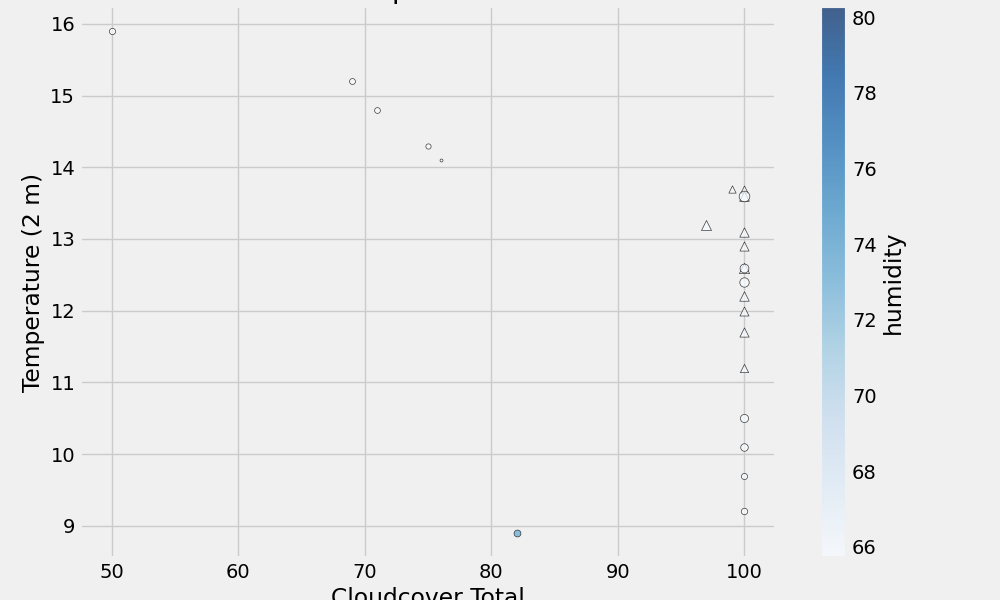
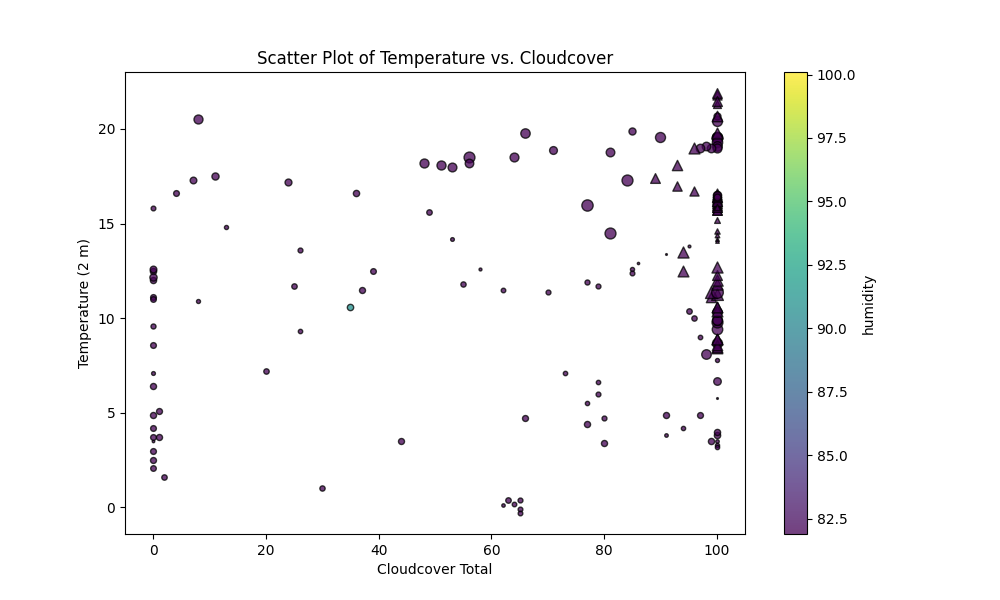
fix histogram

diff --git a/homework7/main.py b/homework7/main.py
@@ -133,16 +133,16 @@ def draw_pie_chart(forecast_days):
     plt.show()
 
 
-def draw_histogram():
-    data = get_data(UZH_CITY_LATITUDE, UZH_CITY_LONGITUDE, (HOURLY_WINDSPEED,), 1)
-    plt.style.use('_mpl-gallery')
+def draw_histogram(forecast_days):
+    data = get_data(UZH_CITY_LATITUDE, UZH_CITY_LONGITUDE, (HOURLY_WINDSPEED,), forecast_days)
     x = data['hourly'][HOURLY_WINDSPEED]
 
-    plt.style.use('fivethirtyeight')
-    plt.hist(x, bins=8, edgecolor='k', alpha=0.7)
-    plt.title('Hourly wind speed data for Uzhhorod city')
-    plt.ylabel('Hours')
-    plt.ylabel('Windspeed_10m')
+    fig, ax = plt.subplots()
+
+    ax.hist(x, bins=8, edgecolor='k', alpha=0.7)
+    ax.set_title(f'Hourly wind speed data for Uzhhorod for {forecast_days} days')
+    ax.set_ylabel('?')
+    ax.set_xlabel('Windspeed (m/s)')
     plt.savefig('histogram.png')
     plt.show()
 
@@ -157,7 +157,7 @@ def draw_scatter_plot(dim=2):
             If dim is 3, it will create a 3D scatter plot of Temperature vs. Cloudcover vs. Humidity.
     """
     data = get_data(UZH_CITY_LATITUDE, UZH_CITY_LONGITUDE,
-                    (HOURLY_TEMPERATURE, HOURLY_WINDSPEED, HOURLY_CLOUDCOVER, HOURLY_PRECIPITATION, HOURLY_HUMIDITY), 1)
+                    (HOURLY_TEMPERATURE, HOURLY_WINDSPEED, HOURLY_CLOUDCOVER, HOURLY_PRECIPITATION, HOURLY_HUMIDITY), 7)
 
     temperature = data['hourly'][HOURLY_TEMPERATURE]
     cloudcover = data['hourly'][HOURLY_CLOUDCOVER]
@@ -169,7 +169,6 @@ def draw_scatter_plot(dim=2):
 
     # Отмечаем точки как треугольники, если есть осадки
     is_precipitation = [p > 0 for p in precipitation]
-
     marker_size = np.array(wind_speed) * 4
 
     if dim == 2:
@@ -205,6 +204,6 @@ if __name__ == "__main__":
     draw_line_chart(16)
     draw_bar_chart(7)
     draw_pie_chart(3)
-    draw_histogram()
+    draw_histogram(7)
     draw_scatter_plot()
     draw_scatter_plot(3)
